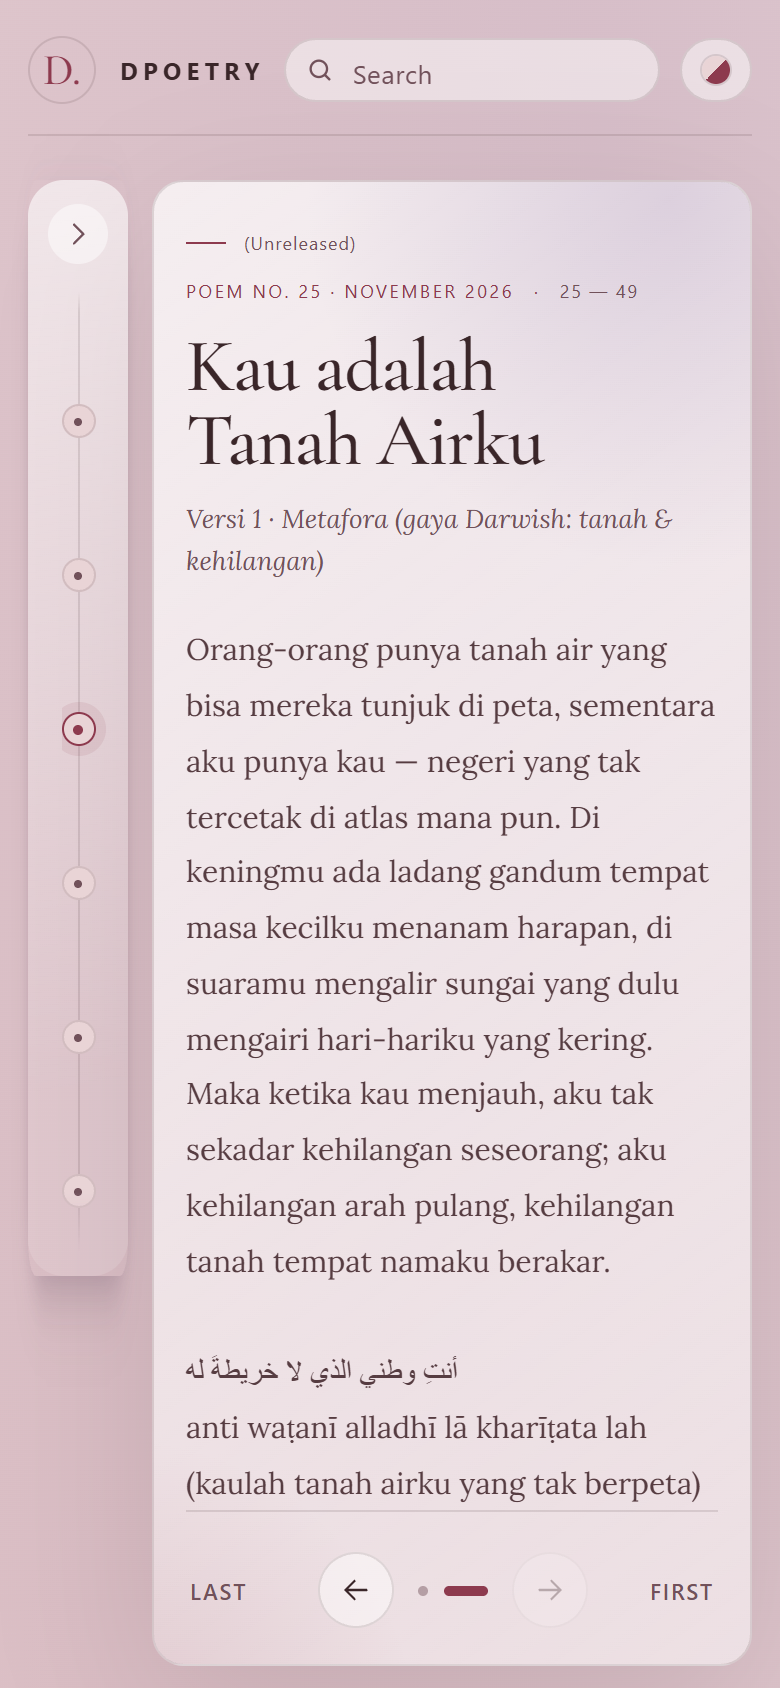
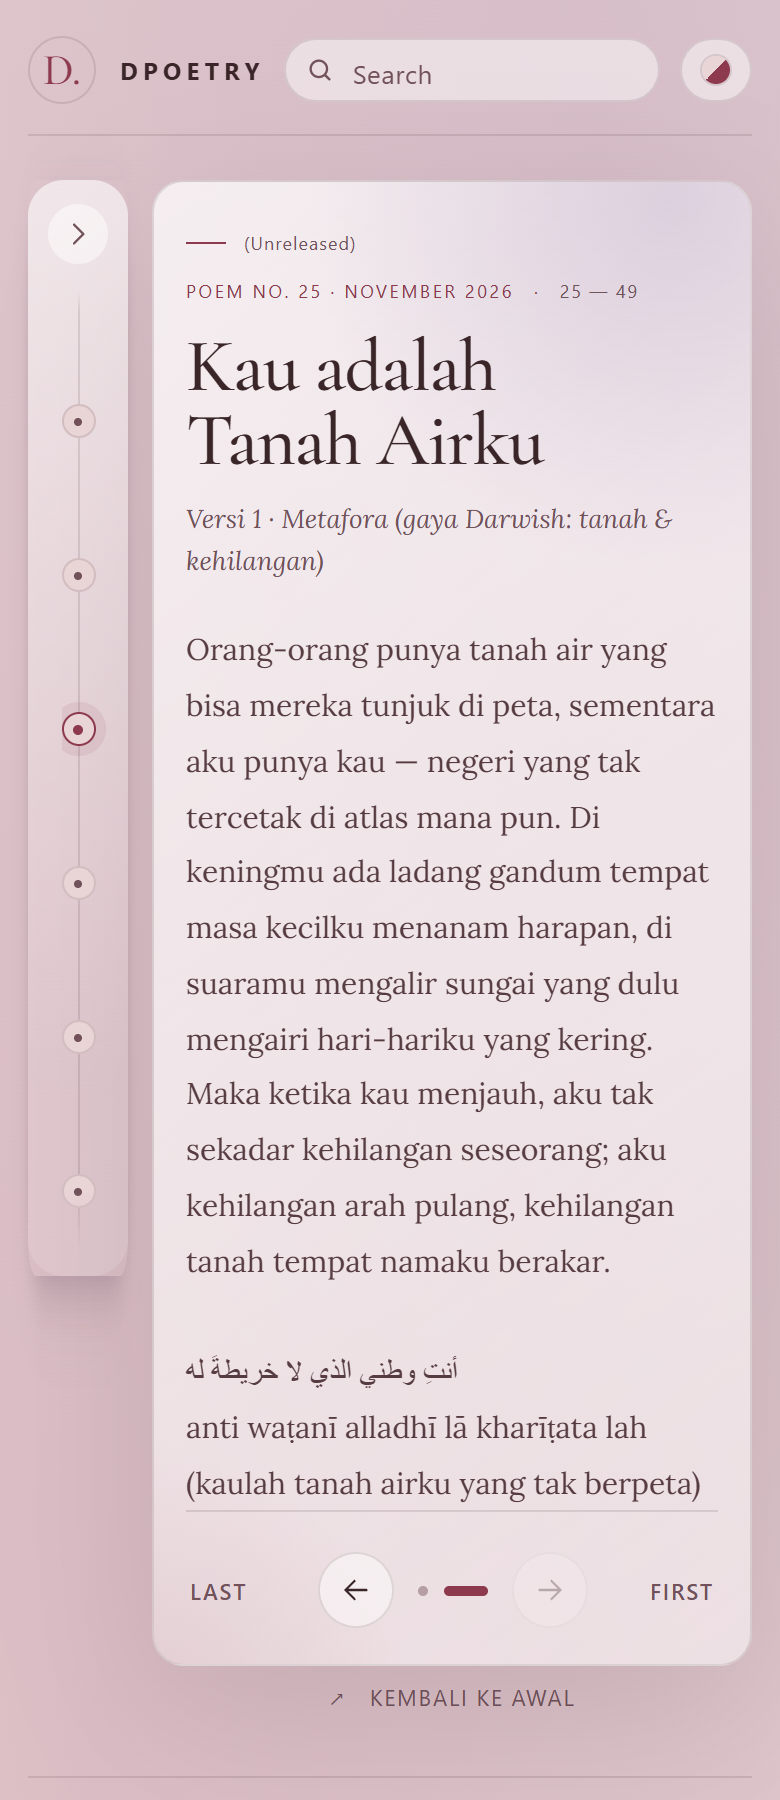
README: tidy phone screenshots into a 2x2 grid, add English pages
Same-size frames (390x900): Indonesian pages with Arabic (Rosé, Ocean)
and the English pages of the same poems (Lavender, Daylight).

diff --git a/README.md b/README.md
@@ -19,19 +19,36 @@
 > [!NOTE]
 > **Unreleased.** The poems are still being corrected and revised, so text, titles and translations may change before the first release.
 
-## Poems with Arabic
+## English, Indonesian and a line of Arabic
 
-Many poems close their Indonesian page with a single line of Arabic, followed by its transliteration and meaning.
+Each poem opens with its English page; the Indonesian page follows and often closes with a single line of Arabic, its transliteration and meaning.
 
 <p align="center">
   <img src="docs/images/arabic-desktop.png" alt="Desktop, Midnight theme: the Indonesian page of 'Bulan yang Kupinjam dari Langit', ending with an Arabic line, its transliteration and meaning" width="880">
 </p>
 
-<p align="center">
-  <img src="docs/images/arabic-phone-rose.png" alt="Phone, Rosé theme: 'Kau adalah Tanah Airku' with its Arabic line at the bottom" width="300">
-  &nbsp;&nbsp;
-  <img src="docs/images/arabic-phone-ocean.png" alt="Phone, Ocean theme: 'Jendela yang Selalu Kubiarkan Terbuka' with its Arabic line at the bottom" width="300">
-</p>
+<table align="center">
+  <tr>
+    <td align="center">
+      <img src="docs/images/arabic-phone-rose.png" alt="Phone, Rosé theme: the Indonesian page of 'Kau adalah Tanah Airku' with its Arabic line at the bottom" width="300"><br>
+      <sub><b>Indonesian page</b> · Rosé</sub>
+    </td>
+    <td align="center">
+      <img src="docs/images/arabic-phone-ocean.png" alt="Phone, Ocean theme: the Indonesian page of 'Jendela yang Selalu Kubiarkan Terbuka' with its Arabic line at the bottom" width="300"><br>
+      <sub><b>Indonesian page</b> · Ocean</sub>
+    </td>
+  </tr>
+  <tr>
+    <td align="center">
+      <img src="docs/images/english-phone-lavender.png" alt="Phone, Lavender theme: the English page, 'You Are My Homeland'" width="300"><br>
+      <sub><b>English page</b> · Lavender</sub>
+    </td>
+    <td align="center">
+      <img src="docs/images/english-phone-daylight.png" alt="Phone, Daylight theme: the English page, 'The Window I Always Leave Open'" width="300"><br>
+      <sub><b>English page</b> · Daylight</sub>
+    </td>
+  </tr>
+</table>
 
 ## What's inside
 
